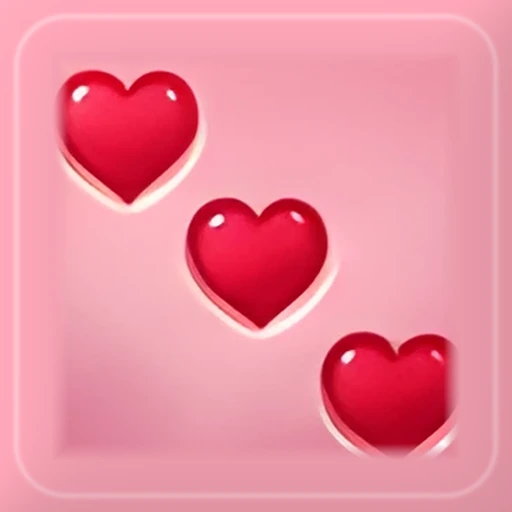
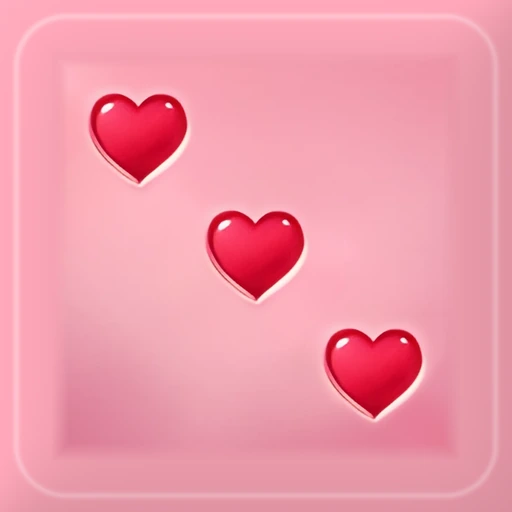
요트 히어로즈 v0.31.1: 하트 주사위 하트가 잘리던 것
- 시안의 하트가 크고 가장자리에 붙어 있어, 테두리를 다듬는 띠에 하트 끝이 걸려 잘렸다
  → 하트를 지운 판의 테두리를 먼저 다듬고, 1면에서 오린 온전한 하트를 표준 자리에 나중에 얹는다 (키캡과 같은 redraw)
- 다시 얹는 눈 지름은 한 변의 19% 까지 (6면에서 이웃 눈 · 테두리와 겹치지 않게)

Claude-Session: https://claude.ai/code/session_014gChBYzVF9cfUwsBghVSK5

Changed region(s): [[0.625, 0.625, 0.9062, 0.9062], [0.0938, 0.125, 0.4062, 0.4375], [0.3438, 0.375, 0.6562, 0.6875]]

diff --git a/dice-heroes/config.js b/dice-heroes/config.js
@@ -3,6 +3,6 @@ export const GAME = {
   name: '요트 히어로즈',
   en: 'YACHT HEROES',
   studio: 'HAHAHOHO COMPANY',
-  version: '0.31.0',
+  version: '0.31.1',
   year: 2026,
 };

diff --git a/dice-heroes/tools/make_dice_from_sheet.py b/dice-heroes/tools/make_dice_from_sheet.py
@@ -28,7 +28,7 @@ CX = [553, 714, 876, 1041, 1207, 1369]
 # 스킨: 줄 번호 → (주사위 앞면 가운데 y, 오려 낼 한 변, 가로 어긋남)
 #   한 변은 주사위 앞면 폭(약 110px)에 대한 픽셀 수. 모서리 둥근 바깥(배경)이 안 들어오게 조금 안쪽으로 잡는다
 SKINS = {   # rim: 테두리를 대칭으로 만들 때 쓸 1/4 ('tl' 왼쪽 위 · 'bl' 왼쪽 아래)
-    'heart':     dict(cy=67,  side=102, rim='bl', finish=dict(amp=0.10, line=(255, 235, 240, 0.45))),
+    'heart':     dict(cy=67,  side=102, rim='bl', redraw=True, finish=dict(amp=0.10, line=(255, 235, 240, 0.45))),
     'keycap':    dict(cy=186, box=(-47, -40, 47, 40), redraw=True, finish=dict(amp=0.07, line=(255, 255, 255, 0.5))),   # 눈이 있는 윗면만 (가운데 기준). 판이 가로로 길어 눈을 다시 얹는다
     'clear':     dict(cy=315, side=112, finish=dict(amp=0.16, line=(200, 230, 255, 0.55), r0=0.125)),
     'minimal':   dict(cy=435, side=108, rim='bl', finish=dict(amp=0.05, line=(255, 255, 255, 0.5))),
@@ -88,8 +88,9 @@ def crop_face(sheet, arr, name, c):
         big = Image.open(hi).convert('RGB')
         crop = big.crop(tuple(round((v - o) * SCALE) for v, o in zip(box, (x0, y0, x0, y0))))
         if p.get('redraw'):
-            face = symmetric_rim(redraw_pips(name, crop, c + 1, sheet, arr), p.get('rim', 'tl'), t)
-            return clean_rim(face, **p['finish'], key=name) if isinstance(p.get('finish'), dict) else face
+            f = p.get('finish')
+            fin = lambda im: (clean_rim(symmetric_rim(im, p.get('rim', 'tl'), t), **f, key=name) if isinstance(f, dict) else symmetric_rim(im, p.get('rim', 'tl'), t))
+            return redraw_pips(name, crop, c + 1, sheet, arr, fin)
         face = symmetric_rim(crop.resize((SIZE, SIZE), Image.LANCZOS), p.get('rim', 'tl'), t)
         f = p.get('finish')
         return obsidian(face) if f == 'obsidian' else clean_rim(face, **f, key=name) if f else face
@@ -107,39 +108,57 @@ PIP_POS = {
 }
 
 
-def dark_pips(a):
-    return (a.sum(2) < 200).astype(np.uint8)
+def dark_pips(a, name='keycap'):
+    """눈 자리 (키캡: 검은 눈 · 그 밖: 스킨 눈 색)"""
+    if name == 'keycap': return (a.sum(2) < 200).astype(np.uint8)
+    return pip_mask(name, a.astype(int)).astype(np.uint8)
+
+
+def face_box(name, cx, cy):
+    p = SKINS[name]
+    if 'box' in p:
+        l, tp, r, b = p['box']; return (cx + l, cy + tp, cx + r, cy + b)
+    h = p['side'] / 2 * (1 - 2 * TRIM.get(name, 0.0))
+    return (cx - h, cy - h, cx + h, cy + h)
 
 
 _PIP = {}
 def pip_sprite_of(name, sheet, arr):
     """1 면 가운데 눈을 원래 비율 그대로 오린 RGBA 조각과, 판 가로폭 대비 눈 지름"""
     if name in _PIP: return _PIP[name]
-    p = SKINS[name]; cx, cy = face_center(arr, name, 0); x0, y0, _, _ = cell_box(name, 0)
-    l, t, r, b = p['box']
+    cx, cy = face_center(arr, name, 0); x0, y0, _, _ = cell_box(name, 0)
     big = Image.open(os.path.join(HIRES, f'{name}_1.webp')).convert('RGB')
-    crop = np.asarray(big.crop(tuple(round((v - o) * SCALE) for v, o in zip((cx + l, cy + t, cx + r, cy + b), (x0, y0, x0, y0))))).copy()
-    k, _, st, cen = cv2.connectedComponentsWithStats(dark_pips(crop))
+    crop = np.asarray(big.crop(tuple(round((v - o) * SCALE) for v, o in zip(face_box(name, cx, cy), (x0, y0, x0, y0))))).copy()
+    k, lab, st, cen = cv2.connectedComponentsWithStats(dark_pips(crop, name))
     i = 1 + int(np.argmax(st[1:, 4]))
-    d = (st[i, 2] + st[i, 3]) / 2
+    d = max(st[i, 2], st[i, 3]) if name != 'keycap' else (st[i, 2] + st[i, 3]) / 2
     R = int(d * 0.72)                                       # 눈 둘레의 옅은 그림자까지
-    px, py = int(cen[i][0]), int(cen[i][1])
+    px, py = (int(st[i, 0] + st[i, 2] / 2), int(st[i, 1] + st[i, 3] / 2)) if name != 'keycap' else (int(cen[i][0]), int(cen[i][1]))
     sp = crop[py - R:py + R, px - R:px + R]
-    m = np.zeros((2 * R, 2 * R), np.float32); cv2.circle(m, (R, R), int(R * 0.92), 1.0, -1)
-    m = cv2.GaussianBlur(m, (0, 0), R * 0.08)
+    if name == 'keycap':
+        m = np.zeros((2 * R, 2 * R), np.float32); cv2.circle(m, (R, R), int(R * 0.92), 1.0, -1)
+        m = cv2.GaussianBlur(m, (0, 0), R * 0.08)
+    else:                                                    # 하트처럼 둥글지 않은 눈: 눈 모양대로 (둘레 그림자 조금)
+        m = (lab[py - R:py + R, px - R:px + R] == i).astype(np.uint8)
+        m = cv2.dilate(m, np.ones((int(R * 0.18) | 1,) * 2, np.uint8)).astype(np.float32)
+        m = cv2.GaussianBlur(m, (0, 0), R * 0.06)
     rgba = Image.fromarray(np.dstack([sp, (m * 255).astype(np.uint8)]), 'RGBA')
     _PIP[name] = (rgba, d / crop.shape[1], R / d)
     return _PIP[name]
 
 
-def redraw_pips(name, crop, v, sheet, arr):
-    """판이 정사각이 아니라서(키캡 94×80) 그대로 늘리면 눈이 길쭉해진다 →
-    눈을 지운 판(inpaint)만 정사각으로 늘리고, 원래 비율의 동그란 눈을 표준 자리(PIP_POS)에 다시 얹는다"""
+MAX_PIP = 0.19   # 다시 얹는 눈의 최대 지름 (한 변 대비) — 6 면에서 이웃 눈 · 테두리와 겹치지 않게
+
+
+def redraw_pips(name, crop, v, sheet, arr, finish=lambda im: im):
+    """눈을 지운 판(inpaint)만 정사각으로 만들고(finish: 테두리 다듬기), 그 위에 원래 비율의 눈을 표준 자리(PIP_POS)에 다시 얹는다.
+    키캡: 판이 가로로 길어(94×80) 그대로 늘리면 눈이 길쭉해졌다.
+    하트: 시안의 하트가 크고 가장자리에 붙어 있어 테두리를 다듬으면 하트가 잘렸다 → 테두리를 먼저 다듬고 하트를 나중에 얹는다"""
     a = np.asarray(crop).copy()
-    hole = cv2.dilate(dark_pips(a), np.ones((25, 25), np.uint8))
-    base = Image.fromarray(cv2.inpaint(a, hole, 9, cv2.INPAINT_TELEA)).resize((SIZE, SIZE), Image.LANCZOS)
+    hole = cv2.dilate(dark_pips(a, name), np.ones((25, 25), np.uint8))
+    base = finish(Image.fromarray(cv2.inpaint(a, hole, 9, cv2.INPAINT_TELEA)).resize((SIZE, SIZE), Image.LANCZOS))
     sprite, dfrac, rr = pip_sprite_of(name, sheet, arr)
-    D = dfrac * SIZE
+    D = min(dfrac, MAX_PIP) * SIZE
     S2 = int(round(D * rr * 2))
     sp = sprite.resize((S2, S2), Image.LANCZOS)
     for fx, fy in PIP_POS[v]:
